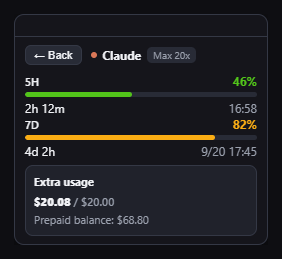
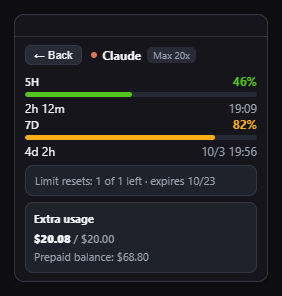
Show Claude's limit-reset tickets in the detail view
Anthropic now hands eligible plans a limit reset (Settings -> Usage -> Resets on
claude.ai), with an expiry date. The widget had nowhere to see how many were
left. Codex already lists its reset credits in the detail view; Claude gets the
same kind of line: "Limit resets: 1 of 1 left · expires 10/23".

The data is not in the plain /usage response, and it was not obvious where it
lived: the usage object has 17 null keys with obfuscated names, the endpoints
the page calls do not mention resets, and a fetch of Settings -> Usage that
redirected to /new never drew the Resets block at all. Driving the page's own
client-side navigation and watching its requests showed it calls
/usage?cedar_ember=1&skip_spend=1, and that the flag fills in a `cedar_ember`
object with a list of grants (resets_left / resets_total / ends_at / usable_now).
Adding the flag changes nothing else in the response: same 26 keys, same numbers.

The flag is an internal name Anthropic can rotate, and the server rejects one it
does not recognise ("Input should be a valid boolean") with an error body rather
than ignoring it. Since /usage is the widget's core data, the flagged request is
tried first and, if it does not come back with usage windows, the plain request
is used instead - so a rename costs the reset line and nothing else.

Parsing lives in usage-math as a pure function checked against the real response
shape: it sums across grants, reports the earliest expiry among those with a
[…]

diff --git a/src/main/collectors/usage-math.test.ts b/src/main/collectors/usage-math.test.ts
@@ -1,5 +1,5 @@
 import { describe, it, expect } from 'vitest'
-import { frac, isSpuriousZero } from './usage-math'
+import { frac, isSpuriousZero, parseResetTickets } from './usage-math'
 import { UsageSnapshot, UsageWindow } from './types'
 
 describe('frac', () => {
@@ -80,5 +80,73 @@ describe('isSpuriousZero', () => {
   it('ignores an empty reading', () => {
     const prev = cached([{ window_type: 'seven_day', utilization: 0.61, resets_at: future }])
     expect(isSpuriousZero([], prev, NOW)).toBe(false)
+  })
+})
+
+describe('parseResetTickets', () => {
+  const NOW = Date.parse('2026-09-29T00:00:00Z')
+
+  // The object claude.ai returned for /usage?cedar_ember=1 on a Pro account
+  // (ids and event_props trimmed).
+  const real = {
+    eligible: true,
+    grants: [{
+      id: 'opus55-launch-promax-20260921',
+      label: 'Claude Opus 5.5 launch: one usage-limit reset for Pro and Max',
+      resets_total: 1, resets_left: 1,
+      starts_at: '2026-09-22T16:00:00+00:00', ends_at: '2026-10-22T16:00:00+00:00',
+      clears: ['five_hour', 'seven_day', 'seven_day_overage_included'],
+      paused: false, usable_now: true, use_requires_limit: false
+    }],
+    next_grant_id: 'opus55-launch-promax-20260921', cooldown_until: null
+  }
+  const grant = (over: Record<string, unknown>) => ({ ...real.grants[0], ...over })
+
+  it('reads the real response shape', () => {
+    expect(parseResetTickets(real, NOW)).toEqual({
+      left: 1, total: 1, expiresAt: '2026-10-22T16:00:00.000Z', usableNow: true
+    })
+  })
+
+  it('sums across grants and reports the earliest expiry that still has a ticket', () => {
+    const got = parseResetTickets({ grants: [
+      grant({ resets_total: 2, resets_left: 2, ends_at: '2026-11-30T00:00:00Z' }),
+      grant({ resets_total: 1, resets_left: 1, ends_at: '2026-10-05T00:00:00Z' })
+    ] }, NOW)
+    expect(got).toMatchObject({ left: 3, total: 3, expiresAt: '2026-10-05T00:00:00.000Z' })
+  })
+
+  it('ignores a grant whose tickets are used up when picking the expiry', () => {
+    const got = parseResetTickets({ grants: [
+      grant({ resets_total: 1, resets_left: 0, ends_at: '2026-10-01T00:00:00Z' }),
+      grant({ resets_total: 1, resets_left: 1, ends_at: '2026-10-22T16:00:00Z' })
+    ] }, NOW)
+    expect(got).toMatchObject({ left: 1, total: 2, expiresAt: '2026-10-22T16:00:00.000Z' })
+  })
+
+  it('shows 0 of N (no expiry) once every ticket is spent', () => {
+    const got = parseResetTickets({ grants: [grant({ resets_left: 0 })] }, NOW)
+    expect(got).toEqual({ left: 0, total: 1, expiresAt: undefined, usableNow: false })
+  })
+
+  it('drops grants that have already expired', () => {
+    expect(parseResetTickets({ grants: [grant({ ends_at: '2026-09-01T00:00:00Z' })] }, NOW)).toBeNull()
+  })
+
+  it('is not usable now when paused or when the grant says it is not', () => {
+    expect(parseResetTickets({ grants: [grant({ paused: true })] }, NOW)?.usableNow).toBe(false)
+    expect(parseResetTickets({ grants: [grant({ usable_now: false })] }, NOW)?.usableNow).toBe(false)
+  })
+
+  it('returns null when there is nothing to show', () => {
+    expect(parseResetTickets(null, NOW)).toBeNull()
+    expect(parseResetTickets(undefined, NOW)).toBeNull()
+    expect(parseResetTickets({ eligible: false, grants: [] }, NOW)).toBeNull()
+    expect(parseResetTickets({ grants: 'nope' }, NOW)).toBeNull()
+  })
+
+  it('skips malformed grants instead of throwing', () => {
+    const got = parseResetTickets({ grants: [null, 'x', { resets_left: 'a' }, grant({})] }, NOW)
+    expect(got).toMatchObject({ left: 1, total: 1 })
   })
 })

diff --git a/src/main/collectors/claude-web.ts b/src/main/collectors/claude-web.ts
@@ -2,7 +2,7 @@ import { session as eSession, BrowserWindow, safeStorage } from 'electron'
 import Store from 'electron-store'
 import { UsageSnapshot, UsageWindow, ExtraUsage } from './types'
 import { t } from '../../shared/i18n'
-import { frac } from './usage-math'
+import { frac, parseResetTickets, ResetTickets } from './usage-math'
 
 // Uses the same approach as claude-usage-widget: a real claude.ai browser
 // session (sessionKey cookie). The claude.ai web endpoints are what the web app
@@ -151,13 +151,32 @@ function mapExtra(overage: any, prepaid: any): ExtraUsage | undefined {
   }
 }
 
+/** e.g. "Limit resets: 1 of 1 left · expires 10/23" — same slot Codex uses for its
+ *  reset credits. Expiry is omitted once none are left. */
+function formatResetTickets(rt: ResetTickets): string {
+  const base = t('claude.resetTickets', rt.left, rt.total)
+  if (!rt.expiresAt || rt.left <= 0) return base
+  const d = new Date(rt.expiresAt)
+  // month/day only, in local time — the same short form the reset clocks use.
+  const when = `${d.getMonth() + 1}/${d.getDate()}`
+  return `${base} · ${t('claude.resetExpires', when)}`
+}
+
 /** Returns a snapshot from claude.ai, or null if not logged in / session invalid. */
 export async function collectClaudeWeb(includeExtra: boolean): Promise<UsageSnapshot | null> {
   await applyCookie() // best-effort; the persistent partition usually has the cookie
   try {
     const orgId = await getOrgId()
     if (!orgId) return null
-    const usage = await fetchJson(`https://claude.ai/api/organizations/${orgId}/usage`)
+    const usageUrl = `https://claude.ai/api/organizations/${orgId}/usage`
+    // `cedar_ember=1` is the flag claude.ai's own Settings → Usage page sends to get
+    // the limit-reset tickets added to the same response; without it that field is
+    // null. The name is an internal one Anthropic may rotate, and an unrecognised
+    // flag is rejected outright (400 with an error body), so if the flagged call does
+    // not come back with usage windows, fall back to the plain call. Reset tickets
+    // are the only thing lost; the usage numbers never depend on the flag.
+    let usage = await fetchJson(`${usageUrl}?cedar_ember=1`).catch(() => null)
+    if (!usage?.five_hour && !usage?.seven_day) usage = await fetchJson(usageUrl)
 
     const windows: UsageWindow[] = []
     const push = (w: UsageWindow | null) => { if (w) windows.push(w) }
@@ -175,11 +194,14 @@ export async function collectClaudeWeb(includeExtra: boolean): Promise<UsageSnap
       extra = mapExtra(overage, prepaid)
     }
 
+    const tickets = parseResetTickets(usage.cedar_ember)
+
     return {
       provider: 'claude',
       available: true,
       windows,
       extraUsage: extra,
+      extraInfo: tickets ? [formatResetTickets(tickets)] : undefined,
       plan: usage.plan?.name ?? usage.subscription,
       fetched_at: new Date().toISOString(),
       stale: false,

diff --git a/src/main/collectors/usage-math.ts b/src/main/collectors/usage-math.ts
@@ -28,3 +28,59 @@ export function isSpuriousZero(fresh: UsageWindow[], cached?: UsageSnapshot, now
     (w) => (w.utilization ?? 0) > 0 && !!w.resets_at && Date.parse(w.resets_at) > now
   )
 }
+
+/** Limit-reset tickets Anthropic hands out to eligible plans (Settings → Usage →
+ *  Resets on claude.ai). */
+export interface ResetTickets {
+  /** Tickets still unused across all unexpired grants. */
+  left: number
+  total: number
+  /** Earliest expiry among grants that still have a ticket left. */
+  expiresAt?: string
+  /** A ticket can be redeemed right now (not paused, and the grant allows it). */
+  usableNow: boolean
+}
+
+/** Read the `cedar_ember` object that `/usage?cedar_ember=1` returns.
+ *
+ *  Shape seen on a Pro account:
+ *    { eligible, grants: [{ resets_total, resets_left, ends_at, usable_now,
+ *                            paused, ... }], next_grant_id, cooldown_until, ... }
+ *  Returns null when there is nothing worth showing, so callers can just skip
+ *  the line rather than print "0 of 0". Grants past their end date are ignored
+ *  even if the server still lists them. */
+export function parseResetTickets(v: unknown, now = Date.now()): ResetTickets | null {
+  const grants = (v as { grants?: unknown } | null | undefined)?.grants
+  if (!Array.isArray(grants)) return null
+
+  let left = 0
+  let total = 0
+  let usableNow = false
+  let expires: number | undefined
+
+  for (const g of grants) {
+    if (!g || typeof g !== 'object') continue
+    const o = g as Record<string, unknown>
+    const grantLeft = Number(o.resets_left)
+    const grantTotal = Number(o.resets_total)
+    if (!isFinite(grantLeft) || !isFinite(grantTotal) || grantTotal <= 0) continue
+
+    const ends = typeof o.ends_at === 'string' ? Date.parse(o.ends_at) : NaN
+    if (isFinite(ends) && ends <= now) continue // already expired
+
+    left += Math.max(grantLeft, 0)
+    total += grantTotal
+    if (grantLeft > 0) {
+      if (o.usable_now === true && o.paused !== true) usableNow = true
+      if (isFinite(ends) && (expires === undefined || ends < expires)) expires = ends
+    }
+  }
+
+  if (total <= 0) return null
+  return {
+    left,
+    total,
+    expiresAt: expires === undefined ? undefined : new Date(expires).toISOString(),
+    usableNow
+  }
+}

diff --git a/src/shared/i18n.ts b/src/shared/i18n.ts
@@ -80,6 +80,8 @@ const messages: Record<Lang, Record<string, string>> = {
     'codex.creditBalance': '크레딧 잔액: {0}',
     'codex.creditNone': ' (없음)',
     'codex.resetCredits': '리셋 크레딧: {0}개',
+    'claude.resetTickets': '리셋권: {0}/{1}개 남음',
+    'claude.resetExpires': '{0} 만료',
     'codex.localTokens5h': '로컬 토큰 (5시간): {0}',
     'codex.localTokens7d': '로컬 토큰 (주간): {0}',
     // antigravity
@@ -168,6 +170,8 @@ const messages: Record<Lang, Record<string, string>> = {
     'codex.creditBalance': 'Credit balance: {0}',
     'codex.creditNone': ' (none)',
     'codex.resetCredits': 'Reset credits: {0}',
+    'claude.resetTickets': 'Limit resets: {0} of {1} left',
+    'claude.resetExpires': 'expires {0}',
     'codex.localTokens5h': 'Local tokens (5h): {0}',
     'codex.localTokens7d': 'Local tokens (weekly): {0}',
     'ag.turnOn': 'Open Antigravity IDE to update',

diff --git a/README.md b/README.md
@@ -44,7 +44,7 @@ All data is read locally / from the official services you're already signed into
 
 | Provider | Source | Notes |
 |---|---|---|
-| **Claude** | `claude.ai` usage API via a one-time in-app login (sessionKey, persisted as a cookie) | Shows 5H / 7D % + reset and extra usage (overage / prepaid). Not logged in → just a login button. |
+| **Claude** | `claude.ai` usage API via a one-time in-app login (sessionKey, persisted as a cookie) | Shows 5H / 7D % + reset and extra usage (overage / prepaid). The detail view also lists your unused limit-reset tickets (Settings → Usage → Resets on claude.ai) with their expiry. Not logged in → just a login button. |
 | **Codex** | `chatgpt.com/backend-api/codex/usage` using the token in `~/.codex/auth.json` | Fetched through a hidden Chromium window (passes Cloudflare). Shows 5H / weekly % + reset, plan, credits. Falls back to local token counts from `~/.codex/logs_2.sqlite`. |
 | **Grok** | `grok.com/rest/rate-limits` via a one-time in-app login | Fetched from inside the page so it carries the session. Shows the quota window (e.g. 2H) as used %, plus queries used / total. The endpoint reports the window length but no reset time, so the reset clock is estimated from when the window was first seen partly used. |
 | **Gemini** | The Antigravity IDE's local Language Server (loopback, no extra auth) | Live only while the IDE is open; shows prompt/flow credit usage + reset and full plan details. When closed, the last fetched value is cached and shown. |
@@ -82,6 +82,7 @@ src/
 - Reading the session straight out of Chrome's encrypted cookie store is intentionally not implemented.
 - The Gemini card reads the Antigravity IDE's language server, so it has no live data while that IDE is closed (the cached value is shown instead).
 - Grok's quota endpoint is an internal grok.com API, not a documented one — it can change without notice.
+- Claude's reset tickets come from `/usage?cedar_ember=1`. That flag is an internal name claude.ai's own page uses, and the server rejects flags it does not recognise, so if it is ever renamed the widget quietly falls back to the plain `/usage` call: the usage numbers are unaffected and only the reset-ticket line disappears.
 
 ## Credits
 
